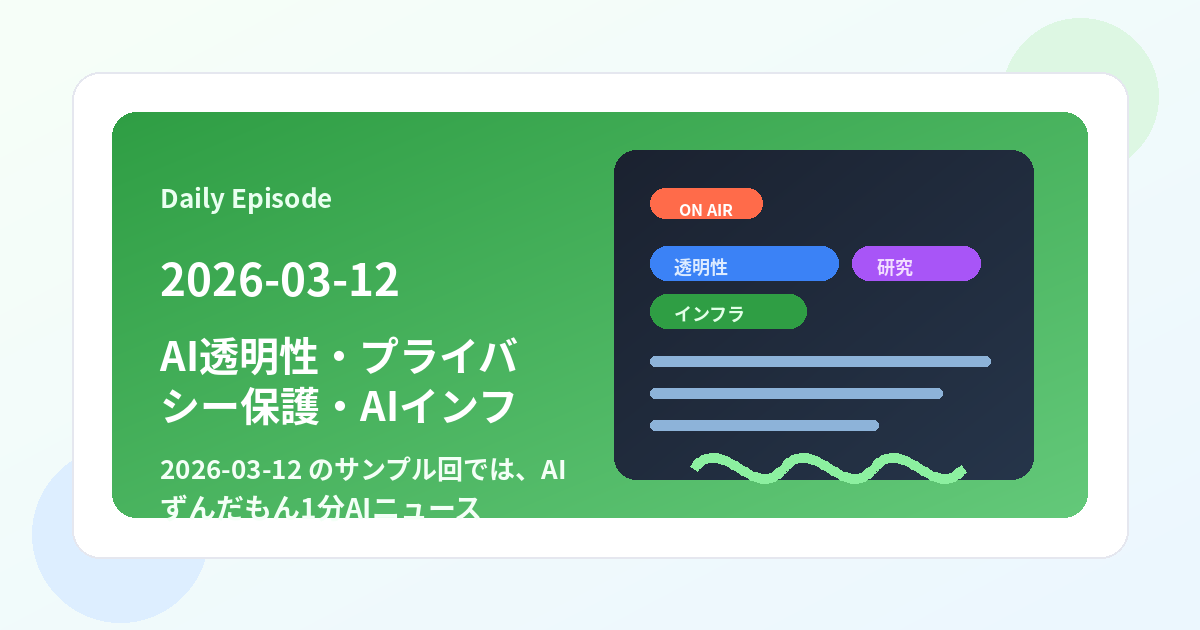
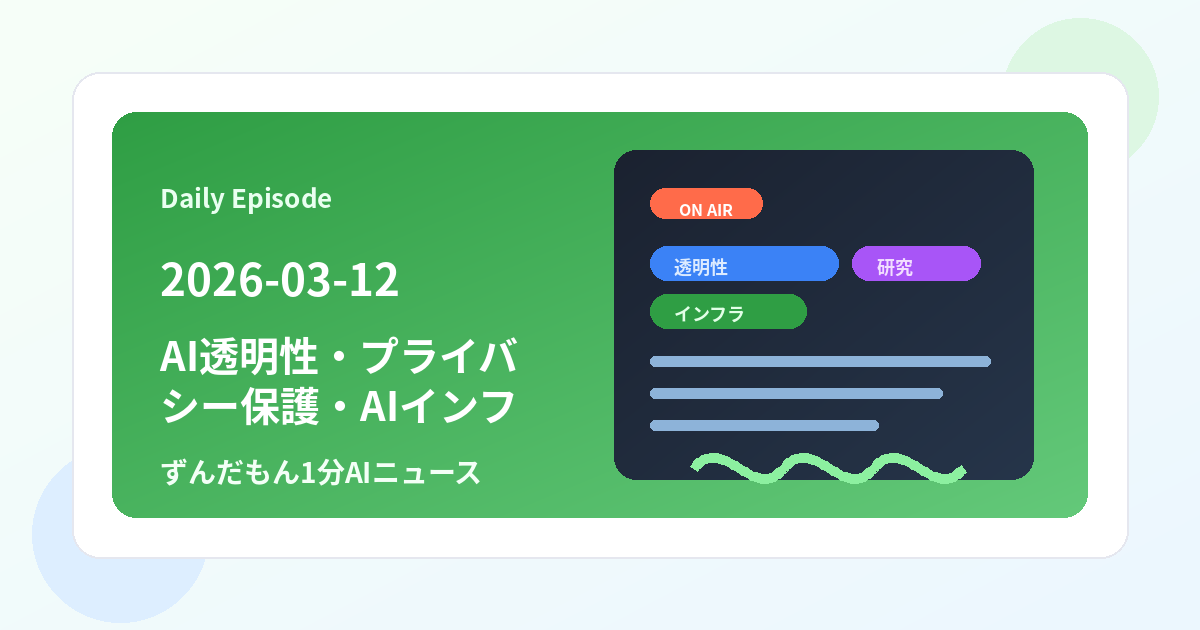
Simplify episode OGP layout

Changed region(s): [[0.1233, 0.7238, 0.4933, 0.8444]]

diff --git a/scripts/render_ogp.py b/scripts/render_ogp.py
@@ -280,18 +280,11 @@ def main() -> None:
         title_font_size = 40
         title_font = load_font(title_font_size, bold=True)
         title_lines = split_title_lines(trim_text(args.title or 'ずんだもん1分AIニュース', 28), title_font, max_width=410)
-        summary = fit_text(args.summary or '', 44, 410, load_font(26, bold=True), ellipsis=False)
-
         text_nodes = [
             ('Daily Episode', (160, 186), 26, True, (233, 255, 240, 255), 'la'),
             (date, (160, 262), 44, True, (255, 255, 255, 255), 'la'),
-            ('ずんだもん1分AIニュース', (160, 472 if len(title_lines) == 1 else 494, ), 28, True, (243, 255, 246, 255), 'la'),
+            ('ずんだもん1分AIニュース', (160, 434 if len(title_lines) == 1 else 458), 28, True, (243, 255, 246, 255), 'la'),
         ]
-        if summary:
-            text_nodes.insert(
-                2,
-                (summary, (160, 432 if len(title_lines) == 1 else 456), 26, True, (243, 255, 246, 255), 'la'),
-            )
         multiline_blocks = [
             (title_lines, (160, 336), title_font_size, True, (255, 255, 255, 255), 10),
         ]

diff --git a/scripts/render_episode.py b/scripts/render_episode.py
@@ -79,8 +79,6 @@ def main():
     (days_dir / f'{date}.html').write_text(render_html(date, header, items), encoding='utf-8')
     (scripts_dir / f'{date}.txt').write_text(render_script(header, items), encoding='utf-8')
 
-    ogp_summary = '' if date == '2026-03-10' else header['summary']
-
     subprocess.run(
         [
             sys.executable,
@@ -89,8 +87,6 @@ def main():
             date,
             '--title',
             header['title'],
-            '--summary',
-            ogp_summary,
         ],
         check=True,
     )
